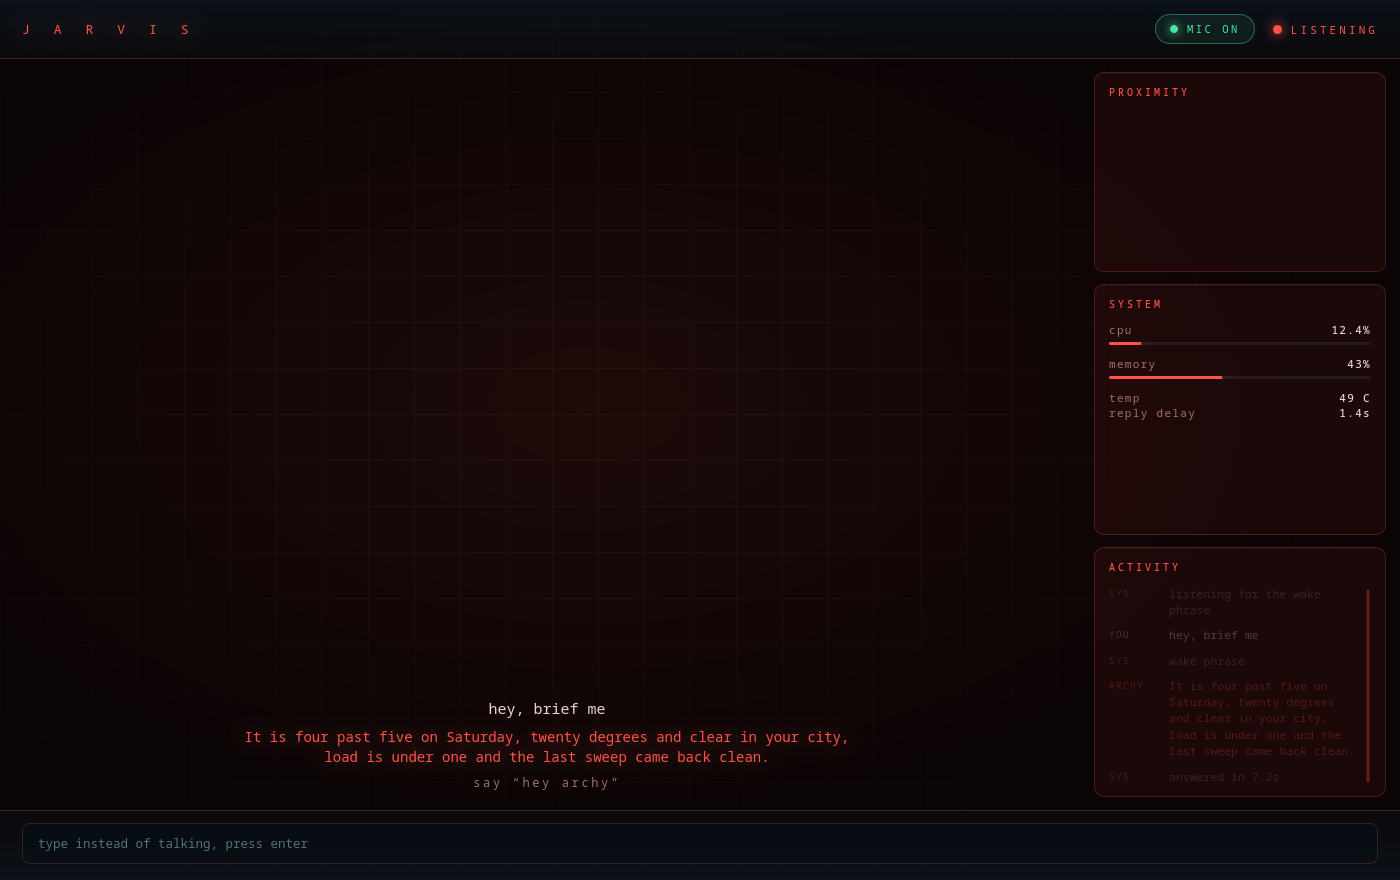
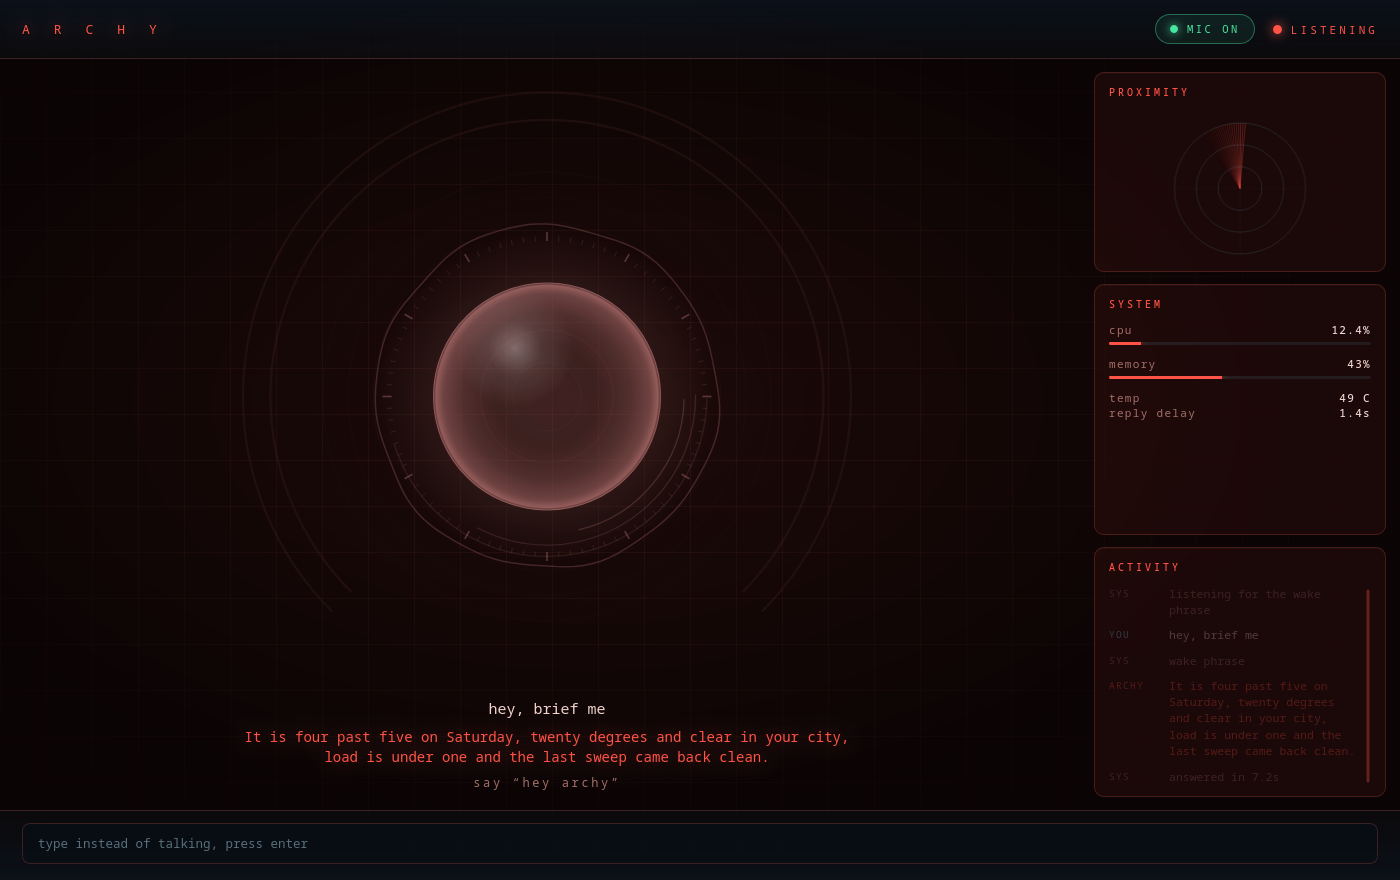
Say the name the project has, in the window and in the notice
The rename was a blanket one and it missed the dashboard: the boot title and the
header brand still said JARVIS. Every picture of that page carried it, which is
the header in the three theme screenshots and the first seconds of the demo film.

The notice for a port that is already in use had the same problem and a worse
one: it told the reader to run pkill -f '[j]arvis', which matches no process on
this machine. It names the two ways this program is started, python -m archy and
the console script, with the bracket that keeps the pattern out of the shell
running the command.

Three checks. The old name is looked for with the whitespace taken out, because
the wordmark is spaced letter by letter and "J A R V I S" is not found by a
search for the name: written the obvious way the check passed on the old page,
which is how this survived the last rename. The notice has to name the program,
and the pattern in it has to match a command line this program really has.

The screenshots are redrawn from docs/render-screenshots.sh.

Changed region(s): [[0.3071, 0.3068, 0.4914, 0.583], [0.86, 0.1227, 0.8907, 0.2148], [0.3686, 0.6136, 0.3993, 0.6443]]

diff --git a/hud/index.html b/hud/index.html
@@ -8,14 +8,14 @@
 <body>
 <div id="boot" aria-hidden="true">
   <div class="boot-inner">
-    <div class="boot-title">J A R V I S</div>
+    <div class="boot-title">A R C H Y</div>
     <pre id="boot-lines"></pre>
   </div>
 </div>
 <div id="app">
 
   <header>
-    <div class="brand">J A R V I S</div>
+    <div class="brand">A R C H Y</div>
     <div class="controls">
       <button id="mic" class="mic" title="microphone, or press M">
         <span class="mic-dot"></span><span id="mic-text">mic on</span>

diff --git a/tests/test_hud_security.py b/tests/test_hud_security.py
@@ -5,7 +5,7 @@ local port as a "simple request" that skips the preflight, and the assistant
 runs shell commands. These are the guards, plus the check that a legitimate
 page still gets through.
 """
-import json, socket, sys, time
+import json, re, socket, sys, time
 from pathlib import Path
 
 sys.path.insert(0, str(Path(__file__).resolve().parents[1] / "src"))
@@ -188,6 +188,17 @@ hint_js = js_path.read_text()
 check("the page in the repository carries a placeholder, not a phrase",
       "__ARCHY_WAKE__" in hint_page and "hey archy" not in hint_page,
       "the phrase lives in config.py and the fallback in app.js")
+
+# The rename was a blanket one and it missed this page: the boot title and the
+# header brand still said the old name, which is the name every picture of the
+# page carried into the README, the release page and the demo film. It was spaced
+# out letter by letter, so the whitespace comes out before matching: the literal
+# text was "J A R V I S", which a search for the name does not find.
+old_name = [path.name for path in sorted(page_path.parent.glob("*"))
+            if path.suffix in (".html", ".js", ".css")
+            and "jarvis" in re.sub(r"\s+", "", path.read_text()).lower()]
+check("nothing in the dashboard answers to the old name", not old_name,
+      ", ".join(old_name))
 check("a page served without the swap falls back instead of showing it",
       "/^__.*__$/" in hint_js and 'dataset.wake || "hey archy"' not in hint_js,
       "the script refuses a leftover placeholder")
@@ -211,6 +222,31 @@ for body in ('["a", "list"]', '"a bare string"', "42"):
 resp = post('{"text": "hello"}', token=hud.token)
 check("a well formed request is accepted", resp.startswith("HTTP/1.1 200"),
       resp.splitlines()[0] if resp else "no response")
+
+# ------------------------------------------------------------ a port already in use
+# The failure a second copy hits, and the advice it prints. The advice has to name
+# a command that matches how this program is actually started, which is what the
+# old name stopped doing: it told the reader to kill a process that does not exist.
+taken = socket.socket()
+taken.bind((HOST, 0))
+taken.listen(1)
+taken_port = taken.getsockname()[1]
+try:
+    notice = None
+    try:
+        Hud(port=taken_port).start()
+    except RuntimeError as exc:
+        notice = str(exc)
+    check("a taken port is reported, not swallowed", notice is not None, str(notice))
+    check("and it names the program, not its old name",
+          bool(notice) and "archy" in notice and "jarvis" not in notice.lower(),
+          str(notice))
+    suggested = re.search(r"pkill -f '([^']+)'", notice or "")
+    check("the pattern it suggests matches the way this runs",
+          bool(suggested) and bool(re.search(suggested.group(1), "python -m archy")),
+          str(suggested and suggested.group(1)))
+finally:
+    taken.close()
 
 hud.stop()
 (sibling / "secret.txt").unlink(missing_ok=True)

diff --git a/src/archy/hud.py b/src/archy/hud.py
@@ -324,7 +324,11 @@ class Hud:
         except OSError as exc:
             raise RuntimeError(
                 f"dashboard port {self.port} is already in use ({exc}). "
-                f"Another copy of archy is probably running: pkill -f '[j]arvis'"
+                # both ways this runs: ./run.sh, which is python -m archy, and the
+                # console script. The bracket is so the pattern does not match the
+                # shell that is running the command, which is how it kills itself.
+                f"Another copy of archy is probably running: "
+                f"pkill -f '[p]ython -m archy|[b]in/archy'"
             ) from exc
         self._server.hud = self                                # type: ignore[attr-defined]
         self._server.daemon_threads = True
